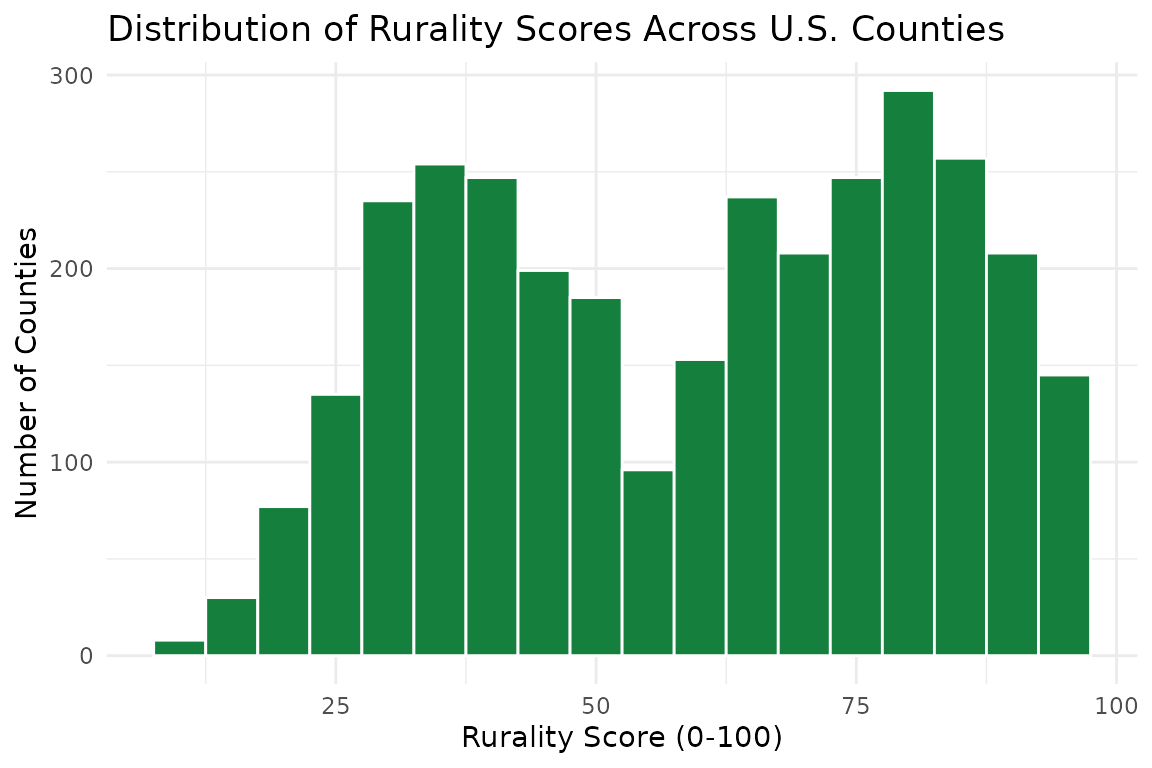
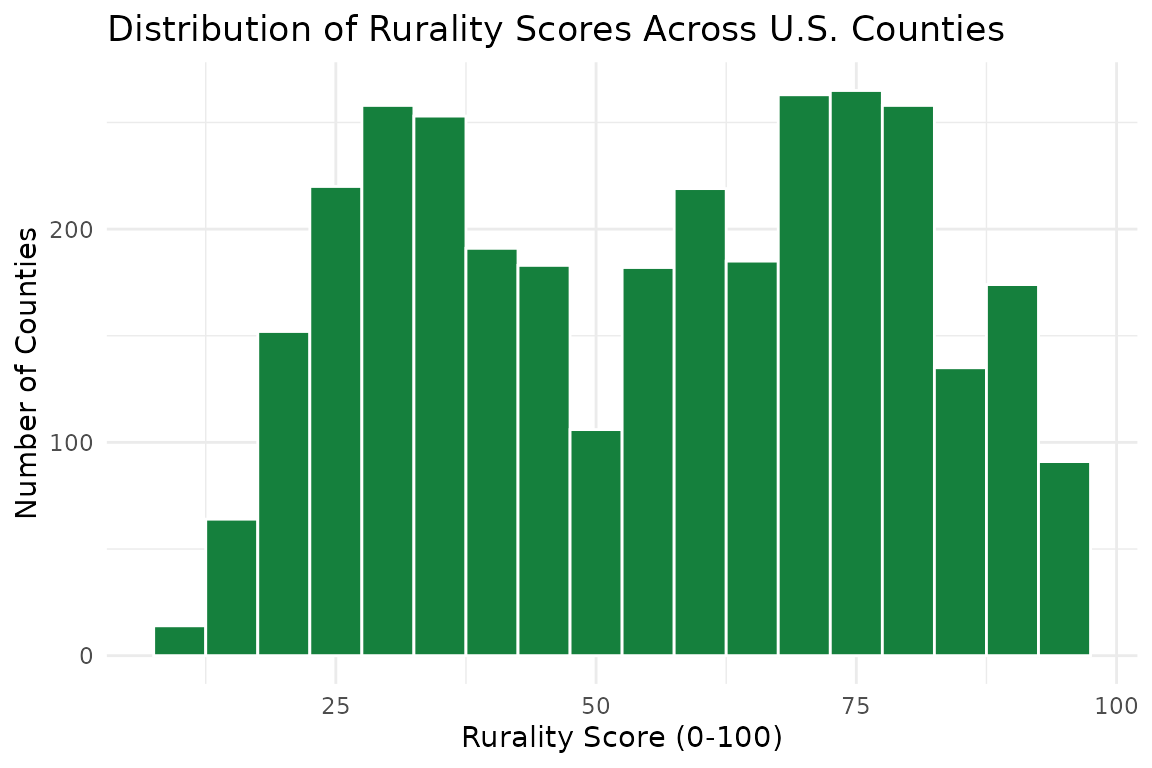
Deploying to gh-pages from @ cwimpy/rurality@e434445c686273f5095d137d570c1a5f649e7e05 🚀

diff --git a/articles/rurality.html b/articles/rurality.html
@@ -100,14 +100,14 @@ spreadsheets.</p>
 <div class="sourceCode" id="cb3"><pre class="downlit sourceCode r">
 <code class="sourceCode R"><span><span class="fu"><a href="../reference/rurality_score.html">rurality_score</a></span><span class="op">(</span><span class="st">"05031"</span><span class="op">)</span></span>
 <span><span class="co">#&gt;  3 </span></span>
-<span><span class="co">#&gt; 40</span></span>
+<span><span class="co">#&gt; 33</span></span>
 <span><span class="fu"><a href="../reference/get_rucc.html">get_rucc</a></span><span class="op">(</span><span class="st">"05031"</span><span class="op">)</span></span>
 <span><span class="co">#&gt; [1] 3</span></span></code></pre></div>
 <p>Multiple FIPS codes work too:</p>
 <div class="sourceCode" id="cb4"><pre class="downlit sourceCode r">
 <code class="sourceCode R"><span><span class="fu"><a href="../reference/rurality_score.html">rurality_score</a></span><span class="op">(</span><span class="fu"><a href="https://rdrr.io/r/base/c.html" class="external-link">c</a></span><span class="op">(</span><span class="st">"05031"</span>, <span class="st">"06037"</span>, <span class="st">"48453"</span><span class="op">)</span><span class="op">)</span></span>
 <span><span class="co">#&gt;  3  1  1 </span></span>
-<span><span class="co">#&gt; 40 17 23</span></span></code></pre></div>
+<span><span class="co">#&gt; 33 15 19</span></span></code></pre></div>
 </div>
 <div class="section level2">
 <h2 id="looking-up-a-zip-code">Looking up a ZIP code<a class="anchor" aria-label="anchor" href="#looking-up-a-zip-code"></a>
@@ -141,9 +141,9 @@ this:</p>
 <span></span>
 <span><span class="va">my_data</span> <span class="op">|&gt;</span> <span class="fu"><a href="../reference/add_rurality.html">add_rurality</a></span><span class="op">(</span><span class="op">)</span></span>
 <span><span class="co">#&gt;    fips outcome rurality_score rurality_classification rucc_2023</span></span>
-<span><span class="co">#&gt; 1 05031    0.72             40                   Mixed         3</span></span>
-<span><span class="co">#&gt; 2 06037    0.41             17                   Urban         1</span></span>
-<span><span class="co">#&gt; 3 48453    0.58             23                Suburban         1</span></span>
+<span><span class="co">#&gt; 1 05031    0.72             33                Suburban         3</span></span>
+<span><span class="co">#&gt; 2 06037    0.41             15                   Urban         1</span></span>
+<span><span class="co">#&gt; 3 48453    0.58             19                   Urban         1</span></span>
 <span><span class="co">#&gt; 4 30063    0.89             45                   Mixed         3</span></span></code></pre></div>
 <p>By default, three columns are added: <code>rurality_score</code>,
 <code>rurality_classification</code>, and <code>rucc_2023</code>. Use
@@ -167,14 +167,14 @@ this:</p>
 <span><span class="co">#&gt; $ omb_designation         <span style="color: #949494; font-style: italic;">&lt;chr&gt;</span> "Metropolitan"<span style="color: #949494;">, </span>"Metropolitan"<span style="color: #949494;">, </span>"Metropolitan"…</span></span>
 <span><span class="co">#&gt; $ lat                     <span style="color: #949494; font-style: italic;">&lt;dbl&gt;</span> 35.83091<span style="color: #949494;">, </span>34.32080<span style="color: #949494;">, </span>30.33436<span style="color: #949494;">, </span>47.03601</span></span>
 <span><span class="co">#&gt; $ lng                     <span style="color: #949494; font-style: italic;">&lt;dbl&gt;</span> -90.63290<span style="color: #949494;">, </span>-118.22485<span style="color: #949494;">, </span>-97.78182<span style="color: #949494;">, </span>-113.92470</span></span>
-<span><span class="co">#&gt; $ dist_large_metro        <span style="color: #949494; font-style: italic;">&lt;dbl&gt;</span> 382.3440<span style="color: #949494;">, </span>18.5902<span style="color: #949494;">, </span>149.6074<span style="color: #949494;">, </span>395.5553</span></span>
-<span><span class="co">#&gt; $ dist_medium_metro       <span style="color: #949494; font-style: italic;">&lt;dbl&gt;</span> 119.7631<span style="color: #949494;">, </span>188.6871<span style="color: #949494;">, </span>441.7468<span style="color: #949494;">, </span>169.4502</span></span>
-<span><span class="co">#&gt; $ dist_small_metro        <span style="color: #949494; font-style: italic;">&lt;dbl&gt;</span> 4.076085<span style="color: #949494;">, </span>377.962597<span style="color: #949494;">, </span>558.870426<span style="color: #949494;">, </span>11.787297</span></span>
+<span><span class="co">#&gt; $ dist_large_metro        <span style="color: #949494; font-style: italic;">&lt;dbl&gt;</span> 57.407969<span style="color: #949494;">, </span>18.590200<span style="color: #949494;">, </span>5.183159<span style="color: #949494;">, </span>395.555327</span></span>
+<span><span class="co">#&gt; $ dist_medium_metro       <span style="color: #949494; font-style: italic;">&lt;dbl&gt;</span> 119.76309<span style="color: #949494;">, </span>85.52511<span style="color: #949494;">, </span>393.06562<span style="color: #949494;">, </span>169.45019</span></span>
+<span><span class="co">#&gt; $ dist_small_metro        <span style="color: #949494; font-style: italic;">&lt;dbl&gt;</span> 4.076085<span style="color: #949494;">, </span>377.962597<span style="color: #949494;">, </span>88.541611<span style="color: #949494;">, </span>11.787297</span></span>
 <span><span class="co">#&gt; $ rucc_score              <span style="color: #949494; font-style: italic;">&lt;dbl&gt;</span> 28<span style="color: #949494;">, </span>8<span style="color: #949494;">, </span>8<span style="color: #949494;">, </span>28</span></span>
 <span><span class="co">#&gt; $ density_score           <span style="color: #949494; font-style: italic;">&lt;dbl&gt;</span> 45<span style="color: #949494;">, </span>15<span style="color: #949494;">, </span>22<span style="color: #949494;">, </span>59</span></span>
-<span><span class="co">#&gt; $ distance_score          <span style="color: #949494; font-style: italic;">&lt;dbl&gt;</span> 69<span style="color: #949494;">, </span>51<span style="color: #949494;">, </span>75<span style="color: #949494;">, </span>78</span></span>
-<span><span class="co">#&gt; $ rurality_score          <span style="color: #949494; font-style: italic;">&lt;dbl&gt;</span> 40<span style="color: #949494;">, </span>17<span style="color: #949494;">, </span>23<span style="color: #949494;">, </span>45</span></span>
-<span><span class="co">#&gt; $ rurality_classification <span style="color: #949494; font-style: italic;">&lt;chr&gt;</span> "Mixed"<span style="color: #949494;">, </span>"Urban"<span style="color: #949494;">, </span>"Suburban"<span style="color: #949494;">, </span>"Mixed"</span></span>
+<span><span class="co">#&gt; $ distance_score          <span style="color: #949494; font-style: italic;">&lt;dbl&gt;</span> 28<span style="color: #949494;">, </span>36<span style="color: #949494;">, </span>49<span style="color: #949494;">, </span>78</span></span>
+<span><span class="co">#&gt; $ rurality_score          <span style="color: #949494; font-style: italic;">&lt;dbl&gt;</span> 33<span style="color: #949494;">, </span>15<span style="color: #949494;">, </span>19<span style="color: #949494;">, </span>45</span></span>
+<span><span class="co">#&gt; $ rurality_classification <span style="color: #949494; font-style: italic;">&lt;chr&gt;</span> "Suburban"<span style="color: #949494;">, </span>"Urban"<span style="color: #949494;">, </span>"Urban"<span style="color: #949494;">, </span>"Mixed"</span></span>
 <span><span class="co">#&gt; $ median_income           <span style="color: #949494; font-style: italic;">&lt;dbl&gt;</span> 55169<span style="color: #949494;">, </span>83411<span style="color: #949494;">, </span>92731<span style="color: #949494;">, </span>66840</span></span>
 <span><span class="co">#&gt; $ median_age              <span style="color: #949494; font-style: italic;">&lt;dbl&gt;</span> 34.4<span style="color: #949494;">, </span>37.4<span style="color: #949494;">, </span>35.1<span style="color: #949494;">, </span>36.7</span></span></code></pre></div>
 <p>If your FIPS column has a different name, specify it:</p>
@@ -182,8 +182,8 @@ this:</p>
 <code class="sourceCode R"><span><span class="va">other_data</span> <span class="op">&lt;-</span> <span class="fu"><a href="https://rdrr.io/r/base/data.frame.html" class="external-link">data.frame</a></span><span class="op">(</span>county_fips <span class="op">=</span> <span class="fu"><a href="https://rdrr.io/r/base/c.html" class="external-link">c</a></span><span class="op">(</span><span class="st">"05031"</span>, <span class="st">"06037"</span><span class="op">)</span>, y <span class="op">=</span> <span class="fl">1</span><span class="op">:</span><span class="fl">2</span><span class="op">)</span></span>
 <span><span class="va">other_data</span> <span class="op">|&gt;</span> <span class="fu"><a href="../reference/add_rurality.html">add_rurality</a></span><span class="op">(</span>fips_col <span class="op">=</span> <span class="st">"county_fips"</span><span class="op">)</span></span>
 <span><span class="co">#&gt;   county_fips y rurality_score rurality_classification rucc_2023</span></span>
-<span><span class="co">#&gt; 1       05031 1             40                   Mixed         3</span></span>
-<span><span class="co">#&gt; 2       06037 2             17                   Urban         1</span></span></code></pre></div>
+<span><span class="co">#&gt; 1       05031 1             33                Suburban         3</span></span>
+<span><span class="co">#&gt; 2       06037 2             15                   Urban         1</span></span></code></pre></div>
 </div>
 <div class="section level2">
 <h2 id="classifying-scores">Classifying scores<a class="anchor" aria-label="anchor" href="#classifying-scores"></a>
@@ -260,16 +260,16 @@ counties:</p>
 <span><span class="co">#&gt; <span style="color: #949494;"># A tibble: 10 × 4</span></span></span>
 <span><span class="co">#&gt;    county_name    rurality_score rurality_classification rucc_2023</span></span>
 <span><span class="co">#&gt;    <span style="color: #949494; font-style: italic;">&lt;chr&gt;</span>                   <span style="color: #949494; font-style: italic;">&lt;dbl&gt;</span> <span style="color: #949494; font-style: italic;">&lt;chr&gt;</span>                       <span style="color: #949494; font-style: italic;">&lt;int&gt;</span></span></span>
-<span><span class="co">#&gt; <span style="color: #BCBCBC;"> 1</span> Calhoun County             85 Very Rural                      9</span></span>
-<span><span class="co">#&gt; <span style="color: #BCBCBC;"> 2</span> Chicot County              85 Very Rural                      9</span></span>
-<span><span class="co">#&gt; <span style="color: #BCBCBC;"> 3</span> Newton County              85 Very Rural                      9</span></span>
-<span><span class="co">#&gt; <span style="color: #BCBCBC;"> 4</span> Searcy County              85 Very Rural                      9</span></span>
-<span><span class="co">#&gt; <span style="color: #BCBCBC;"> 5</span> Desha County               84 Very Rural                      9</span></span>
-<span><span class="co">#&gt; <span style="color: #BCBCBC;"> 6</span> Fulton County              84 Very Rural                      9</span></span>
-<span><span class="co">#&gt; <span style="color: #BCBCBC;"> 7</span> Monroe County              84 Very Rural                      9</span></span>
-<span><span class="co">#&gt; <span style="color: #BCBCBC;"> 8</span> Clay County                83 Very Rural                      9</span></span>
-<span><span class="co">#&gt; <span style="color: #BCBCBC;"> 9</span> Lincoln County             83 Very Rural                      9</span></span>
-<span><span class="co">#&gt; <span style="color: #BCBCBC;">10</span> Marion County              83 Very Rural                      9</span></span></code></pre></div>
+<span><span class="co">#&gt; <span style="color: #BCBCBC;"> 1</span> Calhoun County             82 Very Rural                      9</span></span>
+<span><span class="co">#&gt; <span style="color: #BCBCBC;"> 2</span> Newton County              82 Very Rural                      9</span></span>
+<span><span class="co">#&gt; <span style="color: #BCBCBC;"> 3</span> Nevada County              81 Very Rural                      9</span></span>
+<span><span class="co">#&gt; <span style="color: #BCBCBC;"> 4</span> Searcy County              81 Very Rural                      9</span></span>
+<span><span class="co">#&gt; <span style="color: #BCBCBC;"> 5</span> Chicot County              80 Very Rural                      9</span></span>
+<span><span class="co">#&gt; <span style="color: #BCBCBC;"> 6</span> Desha County               79 Rural                           9</span></span>
+<span><span class="co">#&gt; <span style="color: #BCBCBC;"> 7</span> Marion County              79 Rural                           9</span></span>
+<span><span class="co">#&gt; <span style="color: #BCBCBC;"> 8</span> Pike County                79 Rural                           9</span></span>
+<span><span class="co">#&gt; <span style="color: #BCBCBC;"> 9</span> Fulton County              78 Rural                           9</span></span>
+<span><span class="co">#&gt; <span style="color: #BCBCBC;">10</span> Monroe County              78 Rural                           9</span></span></code></pre></div>
 </div>
 <div class="section level2">
 <h2 id="score-distribution">Score distribution<a class="anchor" aria-label="anchor" href="#score-distribution"></a>

diff --git a/reference/county_rurality.html b/reference/county_rurality.html
@@ -177,20 +177,20 @@ distance to metro areas, and a composite rurality score.</p>
 <span class="r-msg co"><span class="r-pr">#&gt;</span> </span>
 <span class="r-msg co"><span class="r-pr">#&gt;</span>     intersect, setdiff, setequal, union</span>
 <span class="r-in"><span><span class="va">county_rurality</span> <span class="op">|&gt;</span> <span class="fu"><a href="https://dplyr.tidyverse.org/reference/filter.html" class="external-link">filter</a></span><span class="op">(</span><span class="va">rurality_classification</span> <span class="op">==</span> <span class="st">"Very Rural"</span><span class="op">)</span></span></span>
-<span class="r-out co"><span class="r-pr">#&gt;</span> <span style="color: #949494;"># A tibble: 783 × 24</span></span>
+<span class="r-out co"><span class="r-pr">#&gt;</span> <span style="color: #949494;"># A tibble: 535 × 24</span></span>
 <span class="r-out co"><span class="r-pr">#&gt;</span>    fips  state_fips county_fips state_abbr county_name          pop_2020 acs_pop</span>
 <span class="r-out co"><span class="r-pr">#&gt;</span>    <span style="color: #949494; font-style: italic;">&lt;chr&gt;</span> <span style="color: #949494; font-style: italic;">&lt;chr&gt;</span>      <span style="color: #949494; font-style: italic;">&lt;chr&gt;</span>       <span style="color: #949494; font-style: italic;">&lt;chr&gt;</span>      <span style="color: #949494; font-style: italic;">&lt;chr&gt;</span>                   <span style="color: #949494; font-style: italic;">&lt;dbl&gt;</span>   <span style="color: #949494; font-style: italic;">&lt;dbl&gt;</span></span>
-<span class="r-out co"><span class="r-pr">#&gt;</span> <span style="color: #BCBCBC;"> 1</span> 01023 01         023         AL         Choctaw County          <span style="text-decoration: underline;">12</span>665   <span style="text-decoration: underline;">12</span>669</span>
-<span class="r-out co"><span class="r-pr">#&gt;</span> <span style="color: #BCBCBC;"> 2</span> 01025 01         025         AL         Clarke County           <span style="text-decoration: underline;">23</span>087   <span style="text-decoration: underline;">23</span>058</span>
-<span class="r-out co"><span class="r-pr">#&gt;</span> <span style="color: #BCBCBC;"> 3</span> 01027 01         027         AL         Clay County             <span style="text-decoration: underline;">14</span>236   <span style="text-decoration: underline;">14</span>209</span>
-<span class="r-out co"><span class="r-pr">#&gt;</span> <span style="color: #BCBCBC;"> 4</span> 01035 01         035         AL         Conecuh County          <span style="text-decoration: underline;">11</span>597   <span style="text-decoration: underline;">11</span>576</span>
-<span class="r-out co"><span class="r-pr">#&gt;</span> <span style="color: #BCBCBC;"> 5</span> 01093 01         093         AL         Marion County           <span style="text-decoration: underline;">29</span>341   <span style="text-decoration: underline;">29</span>203</span>
-<span class="r-out co"><span class="r-pr">#&gt;</span> <span style="color: #BCBCBC;"> 6</span> 01119 01         119         AL         Sumter County           <span style="text-decoration: underline;">12</span>345   <span style="text-decoration: underline;">12</span>196</span>
-<span class="r-out co"><span class="r-pr">#&gt;</span> <span style="color: #BCBCBC;"> 7</span> 01129 01         129         AL         Washington County       <span style="text-decoration: underline;">15</span>388   <span style="text-decoration: underline;">15</span>434</span>
-<span class="r-out co"><span class="r-pr">#&gt;</span> <span style="color: #BCBCBC;"> 8</span> 01131 01         131         AL         Wilcox County           <span style="text-decoration: underline;">10</span>600   <span style="text-decoration: underline;">10</span>441</span>
-<span class="r-out co"><span class="r-pr">#&gt;</span> <span style="color: #BCBCBC;"> 9</span> 02013 02         013         AK         Aleutians East Boro…     <span style="text-decoration: underline;">3</span>420    <span style="text-decoration: underline;">3</span>407</span>
-<span class="r-out co"><span class="r-pr">#&gt;</span> <span style="color: #BCBCBC;">10</span> 02016 02         016         AK         Aleutians West Cens…     <span style="text-decoration: underline;">5</span>232    <span style="text-decoration: underline;">5</span>219</span>
-<span class="r-out co"><span class="r-pr">#&gt;</span> <span style="color: #949494;"># ℹ 773 more rows</span></span>
+<span class="r-out co"><span class="r-pr">#&gt;</span> <span style="color: #BCBCBC;"> 1</span> 01035 01         035         AL         Conecuh County          <span style="text-decoration: underline;">11</span>597   <span style="text-decoration: underline;">11</span>576</span>
+<span class="r-out co"><span class="r-pr">#&gt;</span> <span style="color: #BCBCBC;"> 2</span> 02013 02         013         AK         Aleutians East Boro…     <span style="text-decoration: underline;">3</span>420    <span style="text-decoration: underline;">3</span>407</span>
+<span class="r-out co"><span class="r-pr">#&gt;</span> <span style="color: #BCBCBC;"> 3</span> 02016 02         016         AK         Aleutians West Cens…     <span style="text-decoration: underline;">5</span>232    <span style="text-decoration: underline;">5</span>219</span>
+<span class="r-out co"><span class="r-pr">#&gt;</span> <span style="color: #BCBCBC;"> 4</span> 02050 02         050         AK         Bethel Census Area      <span style="text-decoration: underline;">18</span>666   <span style="text-decoration: underline;">18</span>538</span>
+<span class="r-out co"><span class="r-pr">#&gt;</span> <span style="color: #BCBCBC;"> 5</span> 02060 02         060         AK         Bristol Bay Borough       844     854</span>
+<span class="r-out co"><span class="r-pr">#&gt;</span> <span style="color: #BCBCBC;"> 6</span> 02063 02         063         AK         Chugach Census Area      <span style="text-decoration: underline;">7</span>102    <span style="text-decoration: underline;">7</span>000</span>
+<span class="r-out co"><span class="r-pr">#&gt;</span> <span style="color: #BCBCBC;"> 7</span> 02066 02         066         AK         Copper River Census…     <span style="text-decoration: underline;">2</span>617    <span style="text-decoration: underline;">2</span>614</span>
+<span class="r-out co"><span class="r-pr">#&gt;</span> <span style="color: #BCBCBC;"> 8</span> 02068 02         068         AK         Denali Borough           <span style="text-decoration: underline;">1</span>619    <span style="text-decoration: underline;">2</span>101</span>
+<span class="r-out co"><span class="r-pr">#&gt;</span> <span style="color: #BCBCBC;"> 9</span> 02070 02         070         AK         Dillingham Census A…     <span style="text-decoration: underline;">4</span>857    <span style="text-decoration: underline;">4</span>854</span>
+<span class="r-out co"><span class="r-pr">#&gt;</span> <span style="color: #BCBCBC;">10</span> 02100 02         100         AK         Haines Borough           <span style="text-decoration: underline;">2</span>080    <span style="text-decoration: underline;">2</span>079</span>
+<span class="r-out co"><span class="r-pr">#&gt;</span> <span style="color: #949494;"># ℹ 525 more rows</span></span>
 <span class="r-out co"><span class="r-pr">#&gt;</span> <span style="color: #949494;"># ℹ 17 more variables: land_area_sqmi &lt;dbl&gt;, pop_density &lt;dbl&gt;,</span></span>
 <span class="r-out co"><span class="r-pr">#&gt;</span> <span style="color: #949494;">#   rucc_2023 &lt;int&gt;, rucc_description &lt;chr&gt;, omb_designation &lt;chr&gt;, lat &lt;dbl&gt;,</span></span>
 <span class="r-out co"><span class="r-pr">#&gt;</span> <span style="color: #949494;">#   lng &lt;dbl&gt;, dist_large_metro &lt;dbl&gt;, dist_medium_metro &lt;dbl&gt;,</span></span>

diff --git a/reference/add_rurality.html b/reference/add_rurality.html
@@ -71,9 +71,9 @@ classification. Use "all" for all variables.</p></dd>
     <div class="sourceCode"><pre class="sourceCode r"><code><span class="r-in"><span><span class="va">my_data</span> <span class="op">&lt;-</span> <span class="fu"><a href="https://rdrr.io/r/base/data.frame.html" class="external-link">data.frame</a></span><span class="op">(</span>fips <span class="op">=</span> <span class="fu"><a href="https://rdrr.io/r/base/c.html" class="external-link">c</a></span><span class="op">(</span><span class="st">"05031"</span>, <span class="st">"06037"</span>, <span class="st">"48453"</span><span class="op">)</span>, value <span class="op">=</span> <span class="fl">1</span><span class="op">:</span><span class="fl">3</span><span class="op">)</span></span></span>
 <span class="r-in"><span><span class="fu">add_rurality</span><span class="op">(</span><span class="va">my_data</span><span class="op">)</span></span></span>
 <span class="r-out co"><span class="r-pr">#&gt;</span>    fips value rurality_score rurality_classification rucc_2023</span>
-<span class="r-out co"><span class="r-pr">#&gt;</span> 1 05031     1             40                   Mixed         3</span>
-<span class="r-out co"><span class="r-pr">#&gt;</span> 2 06037     2             17                   Urban         1</span>
-<span class="r-out co"><span class="r-pr">#&gt;</span> 3 48453     3             23                Suburban         1</span>
+<span class="r-out co"><span class="r-pr">#&gt;</span> 1 05031     1             33                Suburban         3</span>
+<span class="r-out co"><span class="r-pr">#&gt;</span> 2 06037     2             15                   Urban         1</span>
+<span class="r-out co"><span class="r-pr">#&gt;</span> 3 48453     3             19                   Urban         1</span>
 <span class="r-in"><span><span class="fu">add_rurality</span><span class="op">(</span><span class="va">my_data</span>, vars <span class="op">=</span> <span class="st">"all"</span><span class="op">)</span></span></span>
 <span class="r-out co"><span class="r-pr">#&gt;</span>    fips value state_fips county_fips state_abbr        county_name pop_2020</span>
 <span class="r-out co"><span class="r-pr">#&gt;</span> 1 05031     1         05         031         AR   Craighead County   111231</span>
@@ -88,17 +88,17 @@ classification. Use "all" for all variables.</p></dd>
 <span class="r-out co"><span class="r-pr">#&gt;</span> 2         Metro - Counties in metro areas of 1 million+    Metropolitan</span>
 <span class="r-out co"><span class="r-pr">#&gt;</span> 3         Metro - Counties in metro areas of 1 million+    Metropolitan</span>
 <span class="r-out co"><span class="r-pr">#&gt;</span>        lat        lng dist_large_metro dist_medium_metro dist_small_metro</span>
-<span class="r-out co"><span class="r-pr">#&gt;</span> 1 35.83091  -90.63290         382.3440          119.7631         4.076085</span>
-<span class="r-out co"><span class="r-pr">#&gt;</span> 2 34.32080 -118.22485          18.5902          188.6871       377.962597</span>
-<span class="r-out co"><span class="r-pr">#&gt;</span> 3 30.33436  -97.78182         149.6074          441.7468       558.870426</span>
+<span class="r-out co"><span class="r-pr">#&gt;</span> 1 35.83091  -90.63290        57.407969         119.76309         4.076085</span>
+<span class="r-out co"><span class="r-pr">#&gt;</span> 2 34.32080 -118.22485        18.590200          85.52511       377.962597</span>
+<span class="r-out co"><span class="r-pr">#&gt;</span> 3 30.33436  -97.78182         5.183159         393.06562        88.541611</span>
 <span class="r-out co"><span class="r-pr">#&gt;</span>   rucc_score density_score distance_score rurality_score</span>
-<span class="r-out co"><span class="r-pr">#&gt;</span> 1         28            45             69             40</span>
-<span class="r-out co"><span class="r-pr">#&gt;</span> 2          8            15             51             17</span>
-<span class="r-out co"><span class="r-pr">#&gt;</span> 3          8            22             75             23</span>
+<span class="r-out co"><span class="r-pr">#&gt;</span> 1         28            45             28             33</span>
+<span class="r-out co"><span class="r-pr">#&gt;</span> 2          8            15             36             15</span>
+<span class="r-out co"><span class="r-pr">#&gt;</span> 3          8            22             49             19</span>
 <span class="r-out co"><span class="r-pr">#&gt;</span>   rurality_classification median_income median_age</span>
-<span class="r-out co"><span class="r-pr">#&gt;</span> 1                   Mixed         55169       34.4</span>
+<span class="r-out co"><span class="r-pr">#&gt;</span> 1                Suburban         55169       34.4</span>
 <span class="r-out co"><span class="r-pr">#&gt;</span> 2                   Urban         83411       37.4</span>
-<span class="r-out co"><span class="r-pr">#&gt;</span> 3                Suburban         92731       35.1</span>
+<span class="r-out co"><span class="r-pr">#&gt;</span> 3                   Urban         92731       35.1</span>
 <span class="r-in"><span></span></span>
 </code></pre></div>
     </div>

diff --git a/reference/rurality_score.html b/reference/rurality_score.html
@@ -57,10 +57,10 @@
     <h2 id="ref-examples">Examples<a class="anchor" aria-label="anchor" href="#ref-examples"></a></h2>
     <div class="sourceCode"><pre class="sourceCode r"><code><span class="r-in"><span><span class="fu">rurality_score</span><span class="op">(</span><span class="st">"05031"</span><span class="op">)</span></span></span>
 <span class="r-out co"><span class="r-pr">#&gt;</span>  3 </span>
-<span class="r-out co"><span class="r-pr">#&gt;</span> 40 </span>
+<span class="r-out co"><span class="r-pr">#&gt;</span> 33 </span>
 <span class="r-in"><span><span class="fu">rurality_score</span><span class="op">(</span><span class="fu"><a href="https://rdrr.io/r/base/c.html" class="external-link">c</a></span><span class="op">(</span><span class="st">"05031"</span>, <span class="st">"06037"</span>, <span class="st">"48453"</span><span class="op">)</span><span class="op">)</span></span></span>
 <span class="r-out co"><span class="r-pr">#&gt;</span>  3  1  1 </span>
-<span class="r-out co"><span class="r-pr">#&gt;</span> 40 17 23 </span>
+<span class="r-out co"><span class="r-pr">#&gt;</span> 33 15 19 </span>
 <span class="r-in"><span></span></span>
 </code></pre></div>
     </div>

diff --git a/articles/rurality.md b/articles/rurality.md
@@ -49,7 +49,7 @@ If you just need the score or the RUCC code:
 ``` r
 rurality_score("05031")
 #>  3 
-#> 40
+#> 33
 get_rucc("05031")
 #> [1] 3
 ```
@@ -59,7 +59,7 @@ Multiple FIPS codes work too:
 ``` r
 rurality_score(c("05031", "06037", "48453"))
 #>  3  1  1 
-#> 40 17 23
+#> 33 15 19
 ```
 
 ## Looking up a ZIP code
@@ -96,9 +96,9 @@ my_data <- data.frame(
 
 my_data |> add_rurality()
 #>    fips outcome rurality_score rurality_classification rucc_2023
-#> 1 05031    0.72             40                   Mixed         3
-#> 2 06037    0.41             17                   Urban         1
-#> 3 48453    0.58             23                Suburban         1
+#> 1 05031    0.72             33                Suburban         3
+#> 2 06037    0.41             15                   Urban         1
+#> 3 48453    0.58             19                   Urban         1
 #> 4 30063    0.89             45                   Mixed         3
 ```
 
@@ -125,14 +125,14 @@ my_data |> add_rurality(vars = "all") |> glimpse()
 #> $ omb_designation         <chr> "Metropolitan", "Metropolitan", "Metropolitan"…
 #> $ lat                     <dbl> 35.83091, 34.32080, 30.33436, 47.03601
 #> $ lng                     <dbl> -90.63290, -118.22485, -97.78182, -113.92470
-#> $ dist_large_metro        <dbl> 382.3440, 18.5902, 149.6074, 395.5553
-#> $ dist_medium_metro       <dbl> 119.7631, 188.6871, 441.7468, 169.4502
-#> $ dist_small_metro        <dbl> 4.076085, 377.962597, 558.870426, 11.787297
+#> $ dist_large_metro        <dbl> 57.407969, 18.590200, 5.183159, 395.555327
+#> $ dist_medium_metro       <dbl> 119.76309, 85.52511, 393.06562, 169.45019
+#> $ dist_small_metro        <dbl> 4.076085, 377.962597, 88.541611, 11.787297
 #> $ rucc_score              <dbl> 28, 8, 8, 28
 #> $ density_score           <dbl> 45, 15, 22, 59
-#> $ distance_score          <dbl> 69, 51, 75, 78
-#> $ rurality_score          <dbl> 40, 17, 23, 45
-#> $ rurality_classification <chr> "Mixed", "Urban", "Suburban", "Mixed"
+#> $ distance_score          <dbl> 28, 36, 49, 78
+#> $ rurality_score          <dbl> 33, 15, 19, 45
+#> $ rurality_classification <chr> "Suburban", "Urban", "Urban", "Mixed"
 #> $ median_income           <dbl> 55169, 83411, 92731, 66840
 #> $ median_age              <dbl> 34.4, 37.4, 35.1, 36.7
 ```
@@ -143,8 +143,8 @@ If your FIPS column has a different name, specify it:
 other_data <- data.frame(county_fips = c("05031", "06037"), y = 1:2)
 other_data |> add_rurality(fips_col = "county_fips")
 #>   county_fips y rurality_score rurality_classification rucc_2023
-#> 1       05031 1             40                   Mixed         3
-#> 2       06037 2             17                   Urban         1
+#> 1       05031 1             33                Suburban         3
+#> 2       06037 2             15                   Urban         1
 ```
 
 ## Classifying scores
@@ -207,16 +207,16 @@ county_rurality |>
 #> # A tibble: 10 × 4
 #>    county_name    rurality_score rurality_classification rucc_2023
 #>    <chr>                   <dbl> <chr>                       <int>
-#>  1 Calhoun County             85 Very Rural                      9
-#>  2 Chicot County              85 Very Rural                      9
-#>  3 Newton County              85 Very Rural                      9
-#>  4 Searcy County              85 Very Rural                      9
-#>  5 Desha County               84 Very Rural                      9
-#>  6 Fulton County              84 Very Rural                      9
-#>  7 Monroe County              84 Very Rural                      9
-#>  8 Clay County                83 Very Rural                      9
-#>  9 Lincoln County             83 Very Rural                      9
-#> 10 Marion County              83 Very Rural                      9
+#>  1 Calhoun County             82 Very Rural                      9
+#>  2 Newton County              82 Very Rural                      9
+#>  3 Nevada County              81 Very Rural                      9
+#>  4 Searcy County              81 Very Rural                      9
+#>  5 Chicot County              80 Very Rural                      9
+#>  6 Desha County               79 Rural                           9
+#>  7 Marion County              79 Rural                           9
+#>  8 Pike County                79 Rural                           9
+#>  9 Fulton County              78 Rural                           9
+#> 10 Monroe County              78 Rural                           9
 ```
 
 ## Score distribution

diff --git a/reference/county_rurality.md b/reference/county_rurality.md
@@ -178,20 +178,20 @@ library(dplyr)
 #> 
 #>     intersect, setdiff, setequal, union
 county_rurality |> filter(rurality_classification == "Very Rural")
-#> # A tibble: 783 × 24
+#> # A tibble: 535 × 24
 #>    fips  state_fips county_fips state_abbr county_name          pop_2020 acs_pop
 #>    <chr> <chr>      <chr>       <chr>      <chr>                   <dbl>   <dbl>
-#>  1 01023 01         023         AL         Choctaw County          12665   12669
-#>  2 01025 01         025         AL         Clarke County           23087   23058
-#>  3 01027 01         027         AL         Clay County             14236   14209
-#>  4 01035 01         035         AL         Conecuh County          11597   11576
-#>  5 01093 01         093         AL         Marion County           29341   29203
-#>  6 01119 01         119         AL         Sumter County           12345   12196
-#>  7 01129 01         129         AL         Washington County       15388   15434
-#>  8 01131 01         131         AL         Wilcox County           10600   10441
-#>  9 02013 02         013         AK         Aleutians East Boro…     3420    3407
-#> 10 02016 02         016         AK         Aleutians West Cens…     5232    5219
-#> # ℹ 773 more rows
+#>  1 01035 01         035         AL         Conecuh County          11597   11576
+#>  2 02013 02         013         AK         Aleutians East Boro…     3420    3407
+#>  3 02016 02         016         AK         Aleutians West Cens…     5232    5219
+#>  4 02050 02         050         AK         Bethel Census Area      18666   18538
+#>  5 02060 02         060         AK         Bristol Bay Borough       844     854
+#>  6 02063 02         063         AK         Chugach Census Area      7102    7000
+#>  7 02066 02         066         AK         Copper River Census…     2617    2614
+#>  8 02068 02         068         AK         Denali Borough           1619    2101
+#>  9 02070 02         070         AK         Dillingham Census A…     4857    4854
+#> 10 02100 02         100         AK         Haines Borough           2080    2079
+#> # ℹ 525 more rows
 #> # ℹ 17 more variables: land_area_sqmi <dbl>, pop_density <dbl>,
 #> #   rucc_2023 <int>, rucc_description <chr>, omb_designation <chr>, lat <dbl>,
 #> #   lng <dbl>, dist_large_metro <dbl>, dist_medium_metro <dbl>,

diff --git a/reference/add_rurality.md b/reference/add_rurality.md
@@ -37,9 +37,9 @@ The input data frame with rurality columns appended.
 my_data <- data.frame(fips = c("05031", "06037", "48453"), value = 1:3)
 add_rurality(my_data)
 #>    fips value rurality_score rurality_classification rucc_2023
-#> 1 05031     1             40                   Mixed         3
-#> 2 06037     2             17                   Urban         1
-#> 3 48453     3             23                Suburban         1
+#> 1 05031     1             33                Suburban         3
+#> 2 06037     2             15                   Urban         1
+#> 3 48453     3             19                   Urban         1
 add_rurality(my_data, vars = "all")
 #>    fips value state_fips county_fips state_abbr        county_name pop_2020
 #> 1 05031     1         05         031         AR   Craighead County   111231
@@ -54,15 +54,15 @@ add_rurality(my_data, vars = "all")
 #> 2         Metro - Counties in metro areas of 1 million+    Metropolitan
 #> 3         Metro - Counties in metro areas of 1 million+    Metropolitan
 #>        lat        lng dist_large_metro dist_medium_metro dist_small_metro
-#> 1 35.83091  -90.63290         382.3440          119.7631         4.076085
-#> 2 34.32080 -118.22485          18.5902          188.6871       377.962597
-#> 3 30.33436  -97.78182         149.6074          441.7468       558.870426
+#> 1 35.83091  -90.63290        57.407969         119.76309         4.076085
+#> 2 34.32080 -118.22485        18.590200          85.52511       377.962597
+#> 3 30.33436  -97.78182         5.183159         393.06562        88.541611
 #>   rucc_score density_score distance_score rurality_score
-#> 1         28            45             69             40
-#> 2          8            15             51             17
-#> 3          8            22             75             23
+#> 1         28            45             28             33
+#> 2          8            15             36             15
+#> 3          8            22             49             19
 #>   rurality_classification median_income median_age
-#> 1                   Mixed         55169       34.4
+#> 1                Suburban         55169       34.4
 #> 2                   Urban         83411       37.4
-#> 3                Suburban         92731       35.1
+#> 3                   Urban         92731       35.1
 ```

diff --git a/reference/rurality_score.md b/reference/rurality_score.md
@@ -23,8 +23,8 @@ A numeric vector of rurality scores, or NA for unmatched FIPS.
 ``` r
 rurality_score("05031")
 #>  3 
-#> 40 
+#> 33 
 rurality_score(c("05031", "06037", "48453"))
 #>  3  1  1 
-#> 40 17 23 
+#> 33 15 19 
 ```
